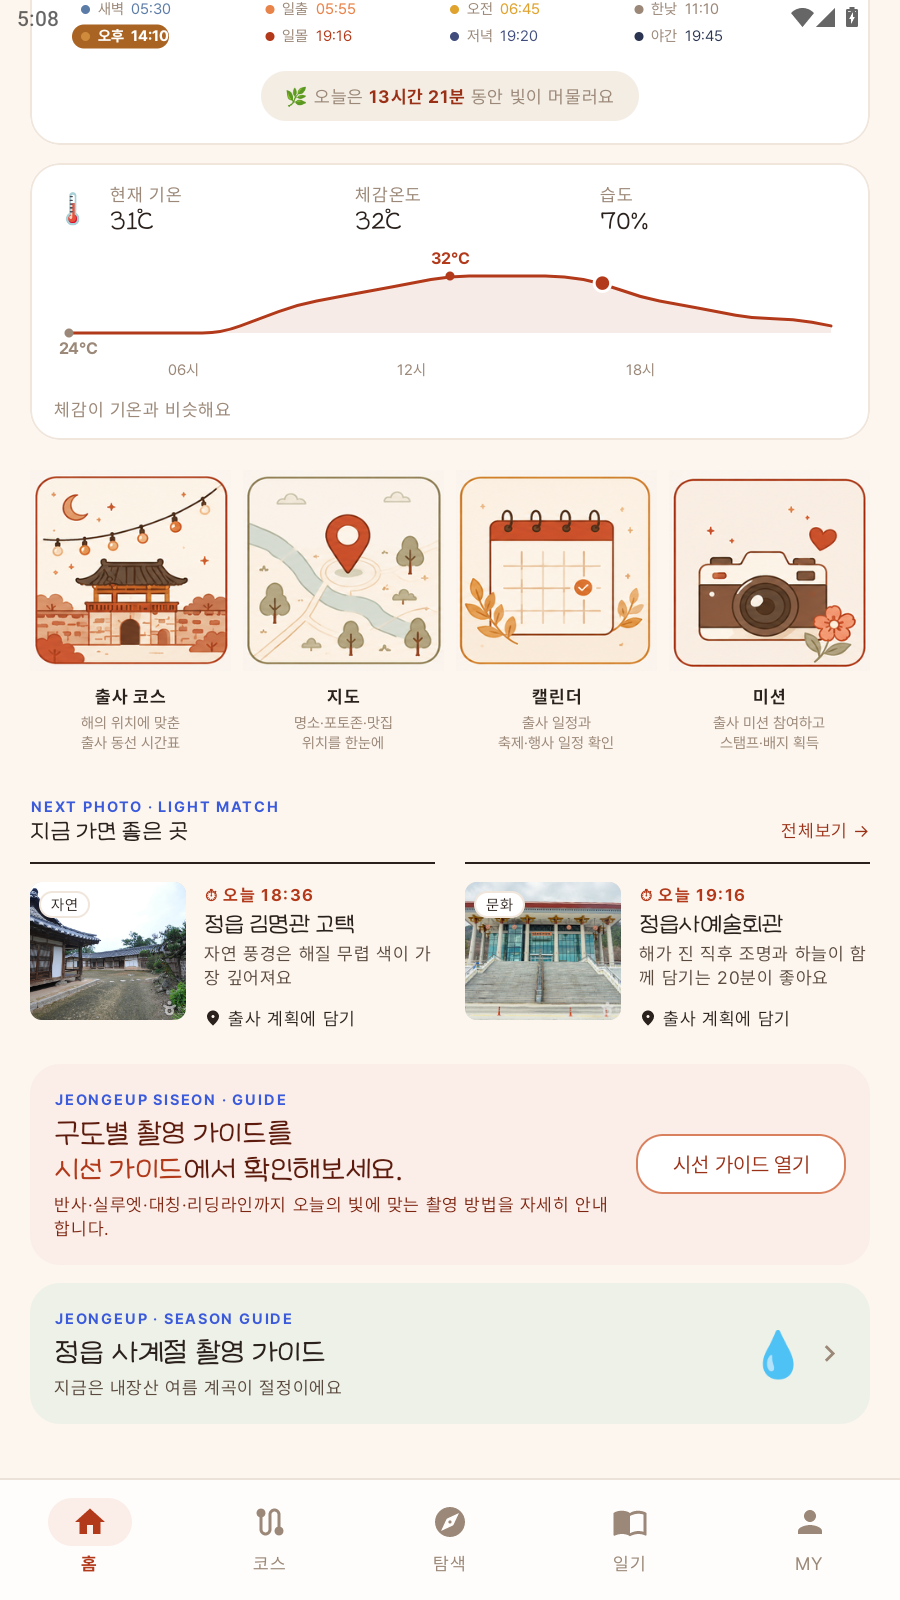
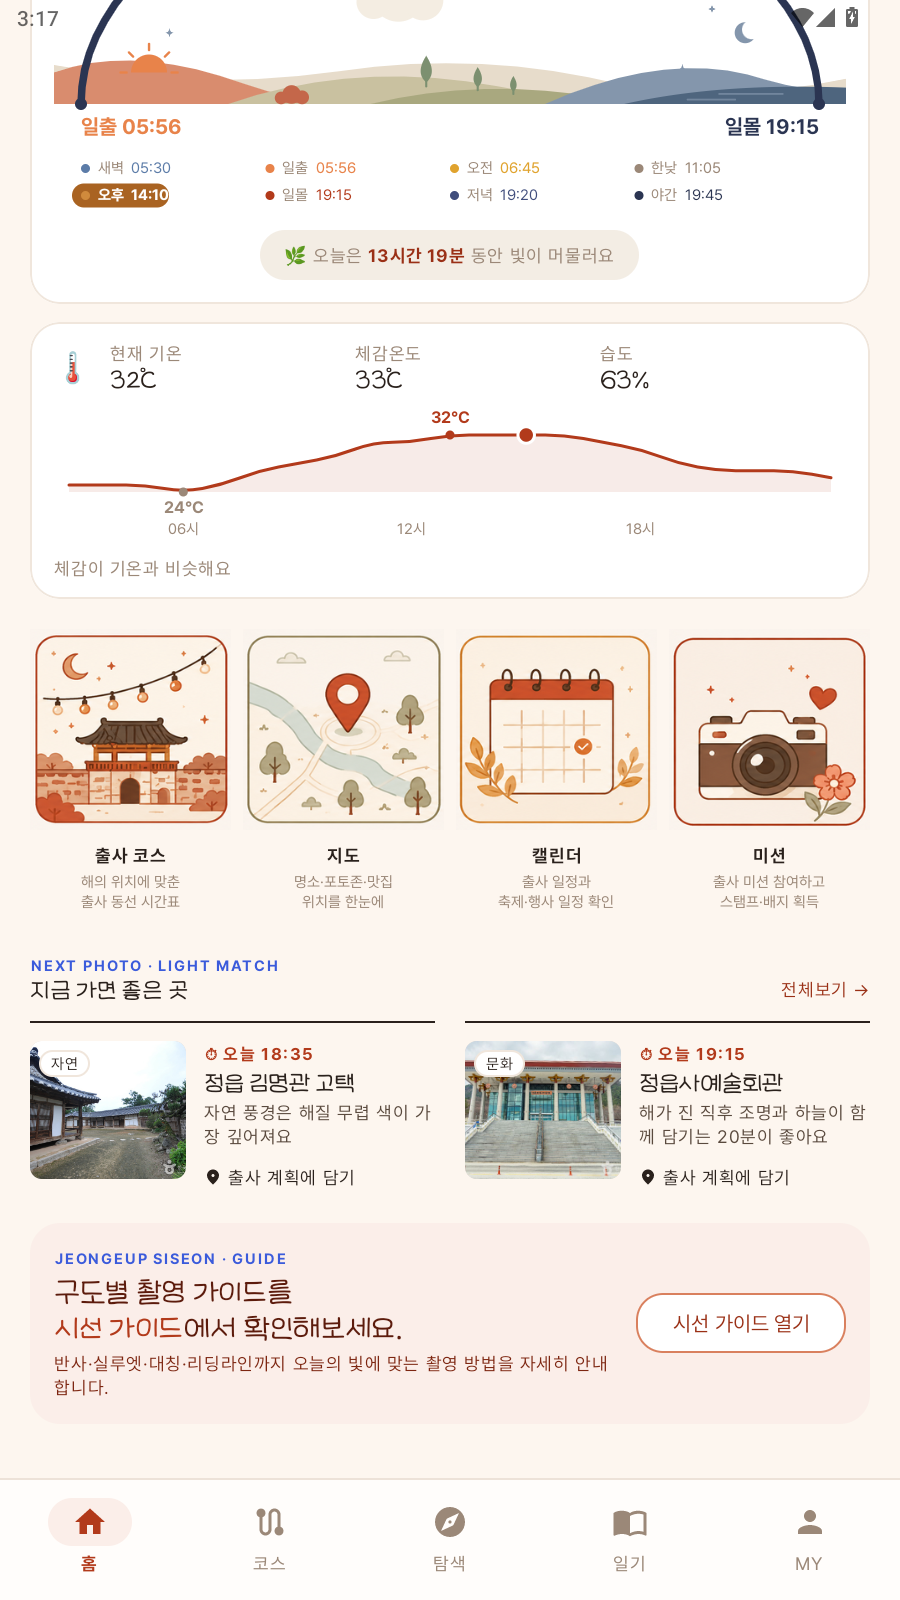
refactor(home): 캘린더 퀵 액션과 겹치는 사계절 가이드 배너 제거

Changed region(s): [[0.0311, 0.0, 0.9644, 0.875], [0.7467, 0.1875, 0.9333, 0.2188], [0.8089, 0.8125, 0.9022, 0.875]]

diff --git a/app/src/main/java/com/youngs/picview/ui/home/HomeFragment.kt b/app/src/main/java/com/youngs/picview/ui/home/HomeFragment.kt
@@ -351,45 +351,6 @@ class HomeFragment : Fragment(R.layout.fragment_home), MainActivity.TabRoot {
         }
 
         buildQuickActions()
-        renderSeasonEntry()
-    }
-
-    /**
-     * 사계절 촬영 가이드 배너.
-     *
-     * 캘린더 진입이 오른쪽 위 날짜 알약뿐이면 찾기 어렵습니다. 지금 계절의
-     * 색을 입힌 배너가 "지금 무엇이 절정인지"부터 말하고 캘린더로 보냅니다.
-     */
-    private fun renderSeasonEntry() {
-        val next = com.youngs.picview.domain.season.SeasonHighlights
-            .upcoming(limit = 1).firstOrNull() ?: return
-        val today = LocalDate.now()
-
-        binding.tvSeasonEntryEmoji.text = next.emoji
-        binding.tvSeasonEntrySub.text = if (next.isPeakNow(today)) {
-            getString(
-                R.string.home_season_peak_now,
-                next.title, next.title.byBatchim("이", "가")
-            )
-        } else {
-            getString(R.string.home_season_dday, next.title, next.daysUntilPeak(today))
-        }
-
-        binding.cardSeasonEntry.setCardBackgroundColor(
-            ContextCompat.getColor(
-                requireContext(),
-                when (com.youngs.picview.domain.season.Season.now()) {
-                    com.youngs.picview.domain.season.Season.SPRING -> R.color.mission_season_soft
-                    com.youngs.picview.domain.season.Season.SUMMER -> R.color.moss_50
-                    com.youngs.picview.domain.season.Season.AUTUMN -> R.color.golden_100
-                    com.youngs.picview.domain.season.Season.WINTER -> R.color.mission_weather_soft
-                }
-            )
-        )
-
-        binding.cardSeasonEntry.setOnClickListener {
-            (activity as? MainActivity)?.pushScreen(CalendarFragment())
-        }
     }
 
     /**

diff --git a/README.md b/README.md
@@ -492,9 +492,7 @@
   잘 말해 줍니다
 - **N월 촬영 캘린더** — 절정(단풍색)과 절정 앞뒤 닷새의 추천(황금색)을
   점으로 구분합니다
-- 홈에 **사계절 촬영 가이드 배너**를 뒀습니다 — 캘린더 진입이 오른쪽 위
-  날짜 알약뿐이면 찾기 어렵습니다. 지금 계절의 색을 입은 배너가
-  "지금은 내장산 여름 계곡이 절정이에요"부터 말하고 이리로 보냅니다
+- 홈에서는 오른쪽 위 **날짜 알약**과 퀵 액션의 **캘린더**로 들어옵니다
 - 계절을 고르면 **그 계절의 색**으로 켜집니다. 봄은 벚꽃 분홍, 여름은
   내장산 신록의 초록, 가을은 은행잎 주황, 겨울은 얼음의 시린 파랑.
   넷 다 대표색(단풍 빨강)이면 무엇을 골랐는지 색으로 알 수 없고,
